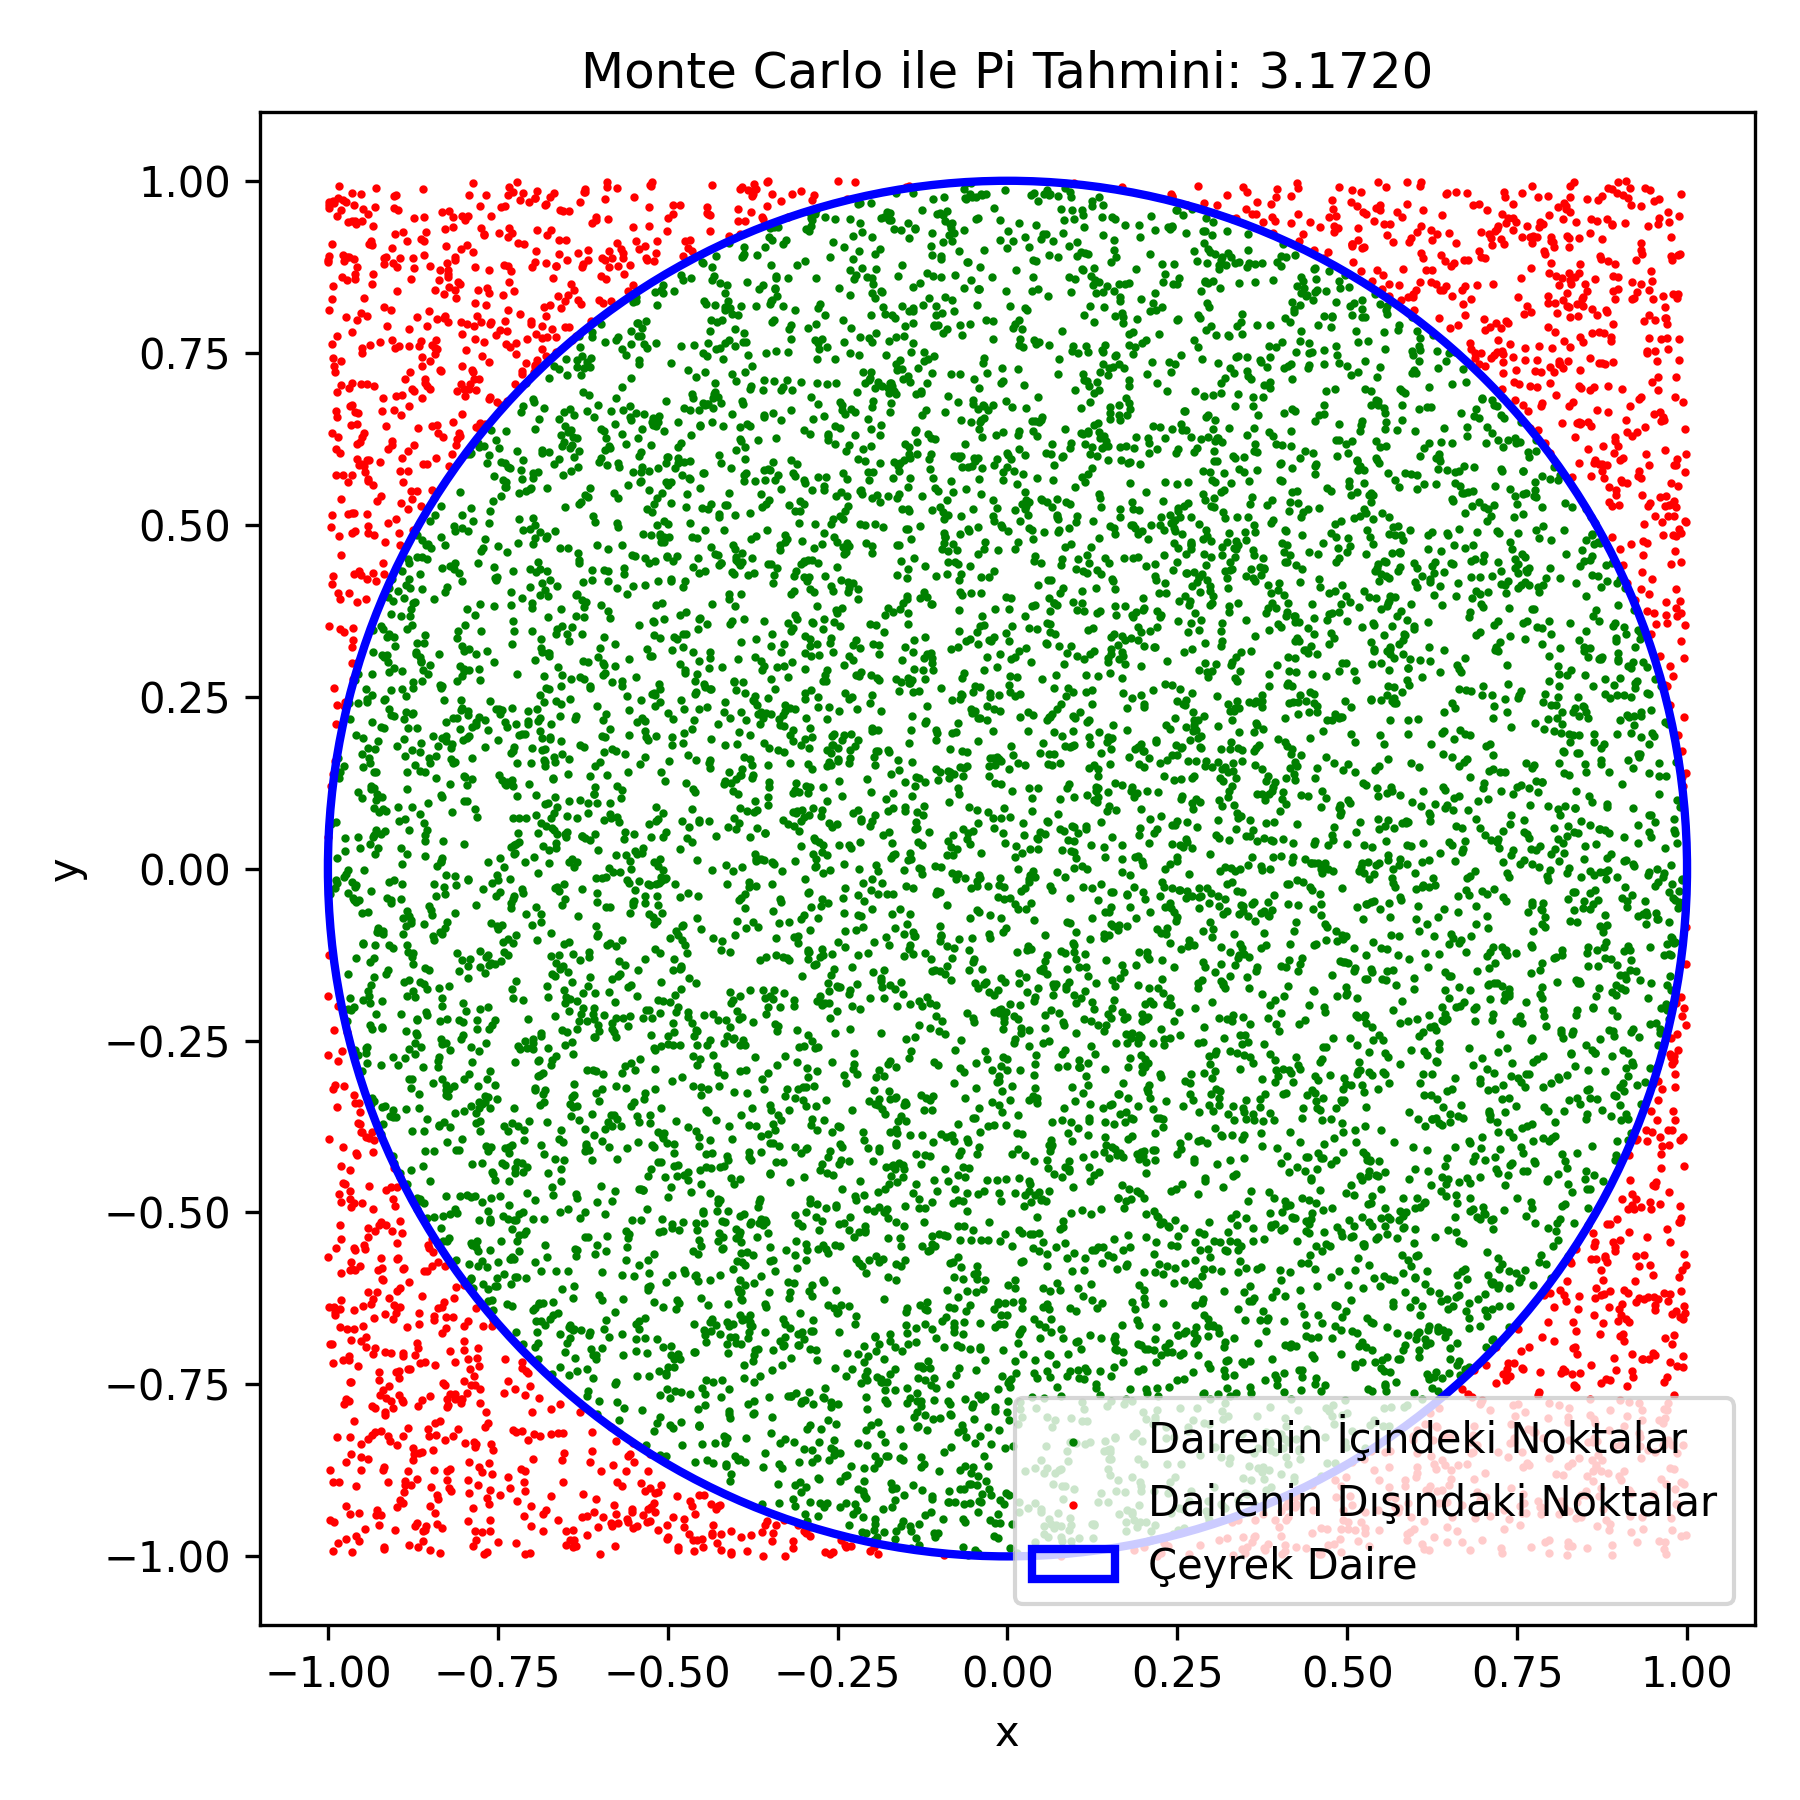
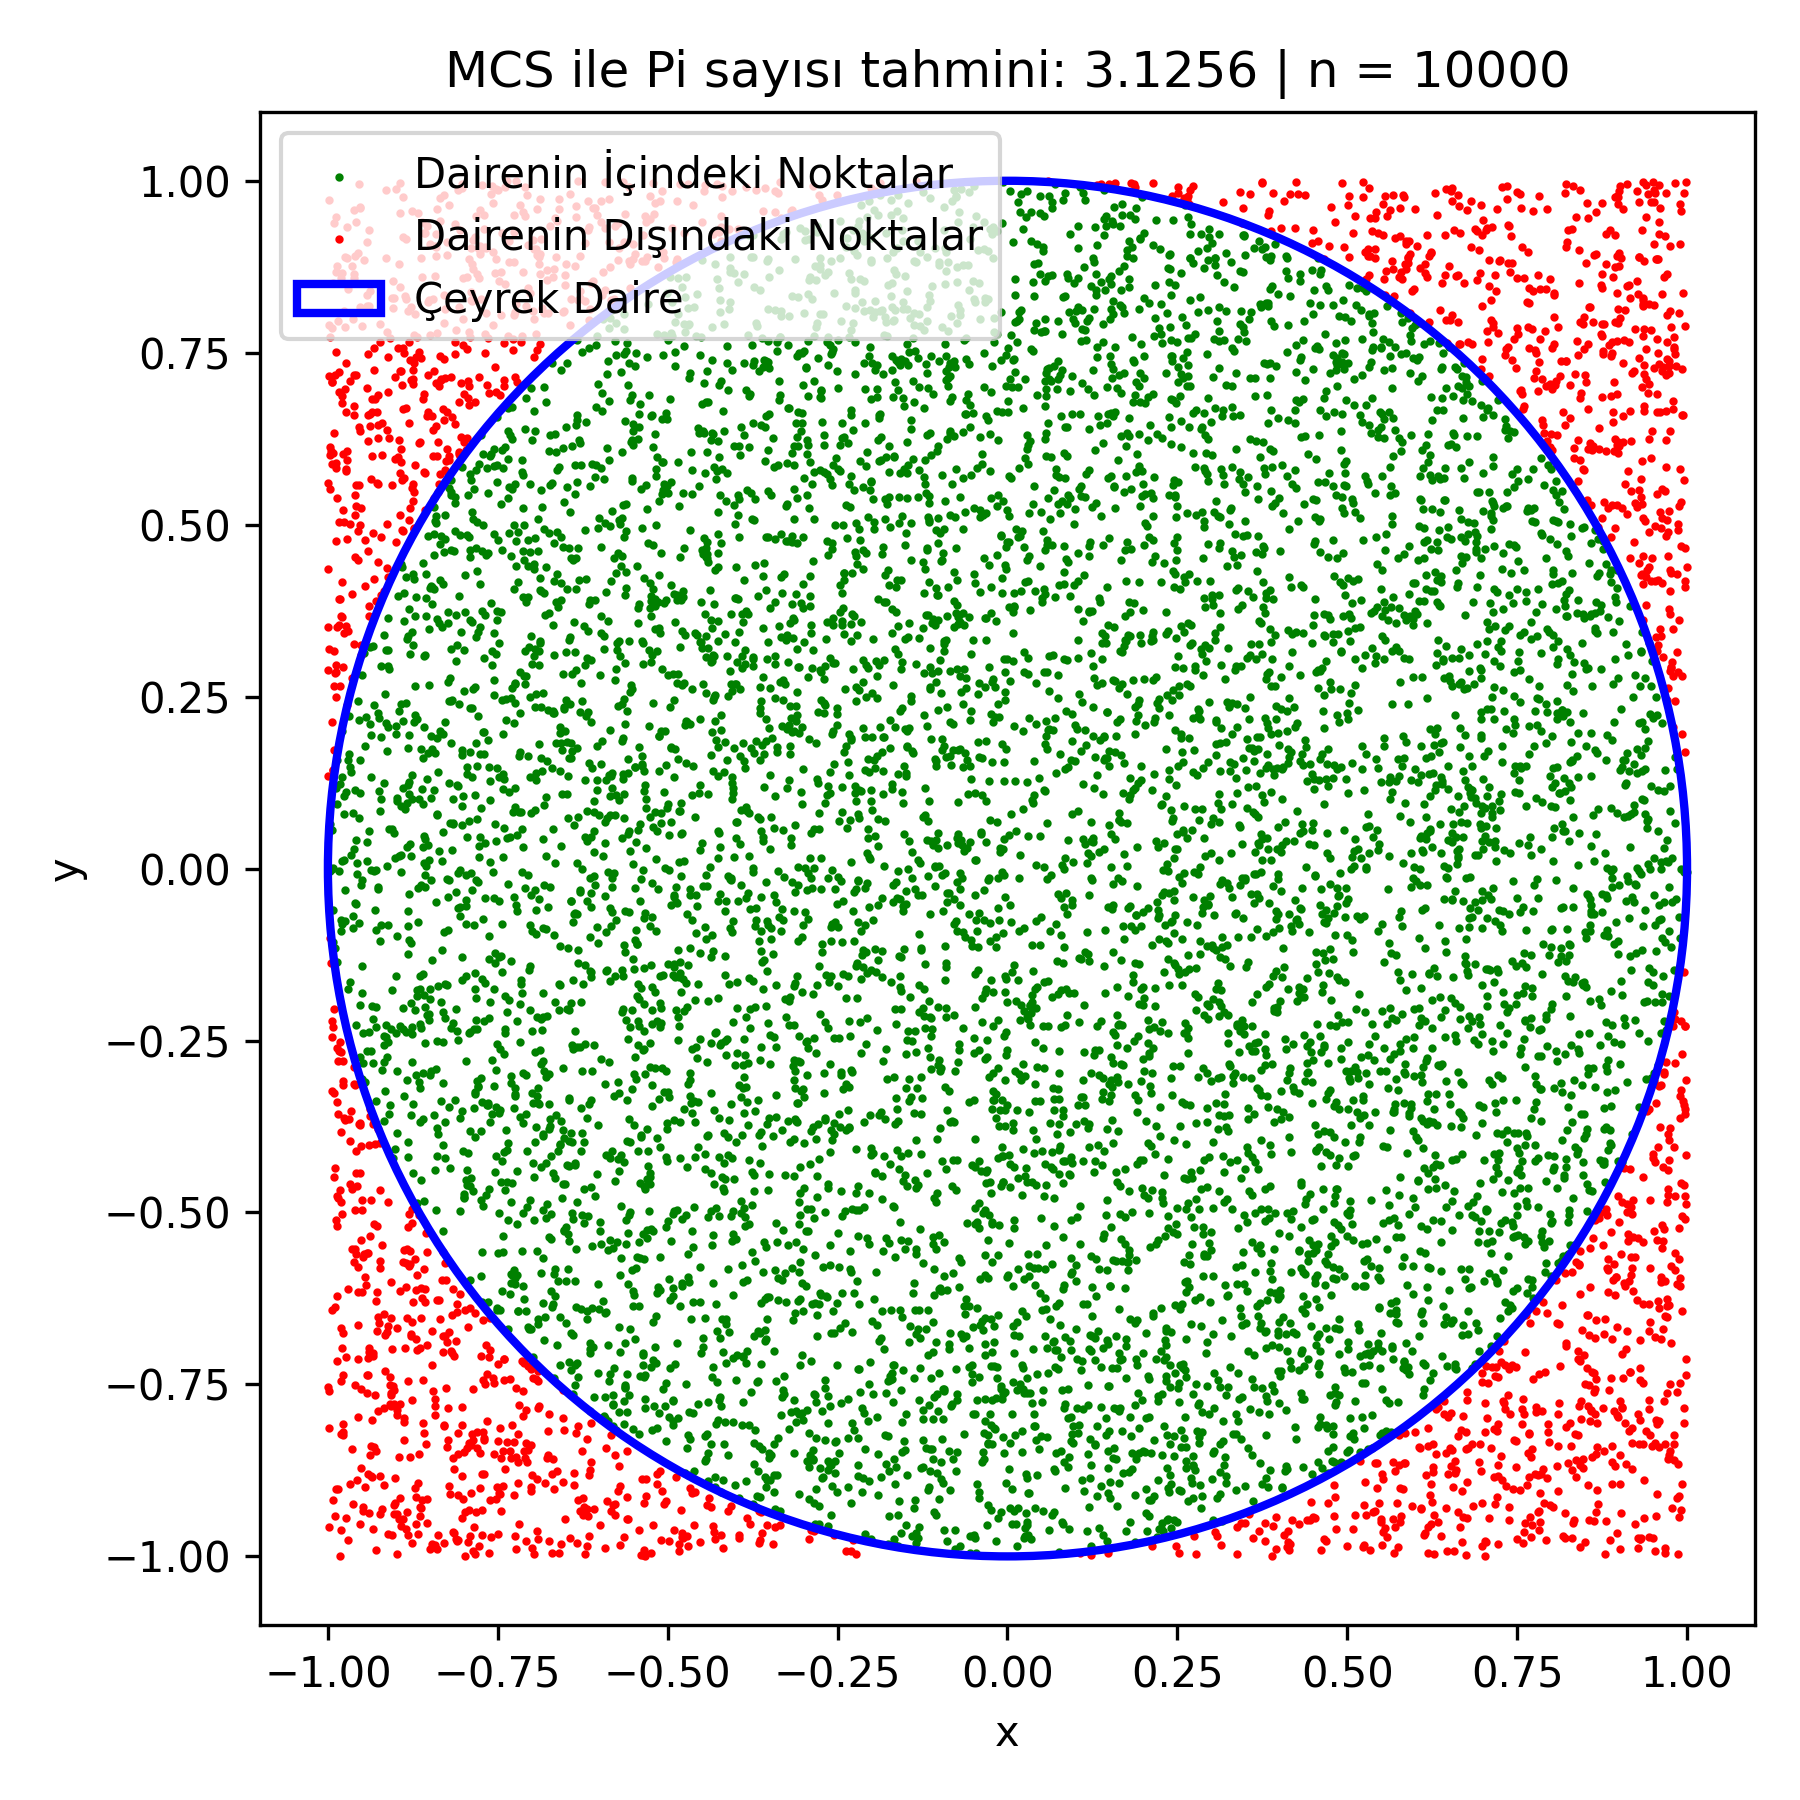
1. Hafta güncellendi

Changed region(s): [[0.1556, 0.0311, 0.9644, 0.9022]]

diff --git a/week-01/pi-estimation.py b/week-01/pi-estimation.py
@@ -2,11 +2,11 @@ import numpy as np
 import matplotlib.pyplot as plt
 
 # Simülasyon için nokta sayısı
-num_points = 10000
+n = 10000
 
 # [-1, 1] aralığında rastgele x ve y koordinatları üret
-x = np.random.uniform(-1, 1, num_points)
-y = np.random.uniform(-1, 1, num_points)
+x = np.random.uniform(-1, 1, n)
+y = np.random.uniform(-1, 1, n)
 
 # Noktaların orijine olan mesafesi (r^2 = x^2 + y^2)
 distances = x**2 + y**2
@@ -15,7 +15,7 @@ distances = x**2 + y**2
 inside_circle = distances <= 1
 
 # Pi tahmini: 4 * (çeyrek daire içindeki noktalar / toplam noktalar)
-pi_estimate = 4 * np.sum(inside_circle) / num_points
+pi_estimate = 4 * np.sum(inside_circle) / n
 
 print(f"Tahmini Pi: {pi_estimate:.4f}")
 
@@ -25,7 +25,7 @@ plt.scatter(x[inside_circle], y[inside_circle], color='green', s=1, label='Daire
 plt.scatter(x[~inside_circle], y[~inside_circle], color='red', s=1, label='Dairenin Dışındaki Noktalar')
 circle = plt.Circle((0, 0), 1, edgecolor='blue', fill=False, linewidth=2, label='Çeyrek Daire')
 plt.gca().add_patch(circle)
-plt.title(f"Monte Carlo ile Pi Tahmini: {pi_estimate:.4f}")
+plt.title(f"MCS ile Pi sayısı tahmini: {pi_estimate:.4f} | n = {n}")
 plt.xlabel("x")
 plt.ylabel("y")
 plt.axis('equal')

diff --git a/week-01/README.md b/week-01/README.md
@@ -11,7 +11,7 @@
 
 <h3>📊 Formül</h3>
 
-$$\frac{\text{Birim daire içindeki noktalar}}{\text{Toplam noktalar}} \approx \frac{\pi}{4} \rightarrow \pi \approx 4 \times \frac{\text{İçerideki noktalar}}{\text{Toplam noktalar}}$$
+$$\frac{\text{Birim daire içindeki noktalar}}{\text{Toplam noktalar}} \approx \frac{\pi}{4} \Rightarrow \pi \approx 4 \times \frac{\text{İçerideki noktalar}}{\text{Toplam noktalar}}$$
 
 <h3>💻 Python Koduyla Örnek</h3>
 
@@ -48,12 +48,15 @@ plt.xlabel("x")
 plt.ylabel("y")
 plt.axis('equal')
 plt.legend()
+plt.axis('tight')
+plt.tight_layout()
+plt.savefig("pi-estimation.png", dpi=300)
 plt.show()
 ```
 
 <h3>🧪 Kodun Çalışma Mantığı:</h3>
 <ul>
-    <li><b>num_points</b> kadar rastgele nokta üretilir.</li>
+    <li><b>n</b> kadar rastgele nokta üretilir.</li>
     <li>Her noktanın orijine uzaklığı hesaplanır.</li>
     <li>Uzaklığı 1 veya daha az olan noktalar dairenin içindedir.</li>
     <li>İçerideki nokta oranı ile 𝞹 tahmini yapılır.</li>
@@ -61,3 +64,6 @@ plt.show()
 </ul>
 
 <img src="pi-estimation.png" alt="monte carlo simülasyonu ile pi sayısı tahmini" width="500" height=auto>
+
+<h3>Referanslar</h3>
+<p align="justify">[1] https://www.mehmetalikucuk.com/genel/kare-daire-olasilik-ve-pi-sayisi/</p>
